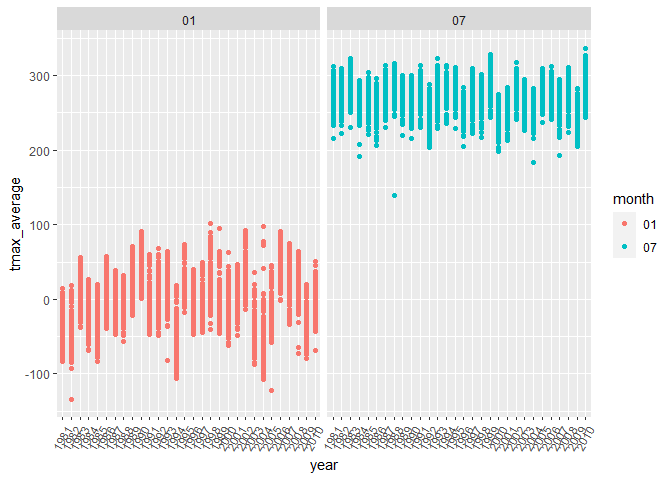
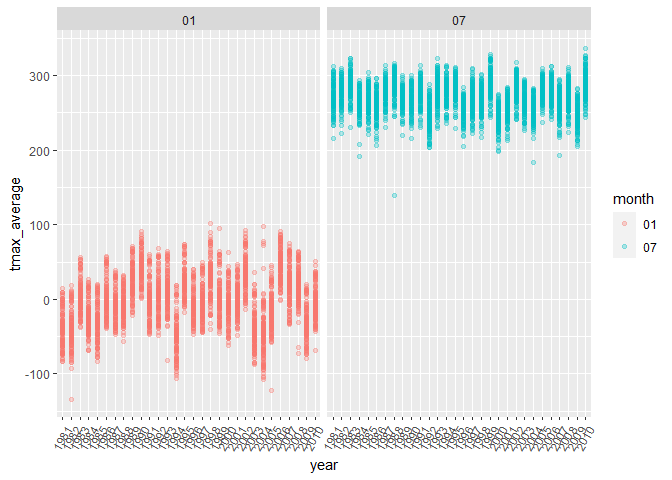
html output and change minor code

diff --git a/p8105_hw3_jc5929.md b/p8105_hw3_jc5929.md
@@ -229,7 +229,6 @@ accel_data %>%
 **Question 3**
 
 ``` r
-library(p8105.datasets) 
 data("ny_noaa")
 ny_data= ny_noaa %>%
   janitor::clean_names() %>%
@@ -243,7 +242,7 @@ month_plot=
   drop_na(tmax) %>%
   group_by(year,id,month) %>%
   summarize(tmax_average=mean(tmax)) %>%
-  ggplot(aes(x=year,y=tmax_average,color=month)) +geom_point()+
+  ggplot(aes(x=year,y=tmax_average,color=month)) +geom_point(alpha=0.3)+
   facet_grid(.~month)+theme(axis.text.x = element_text(angle = 60, hjust = 1))
 ```
 
